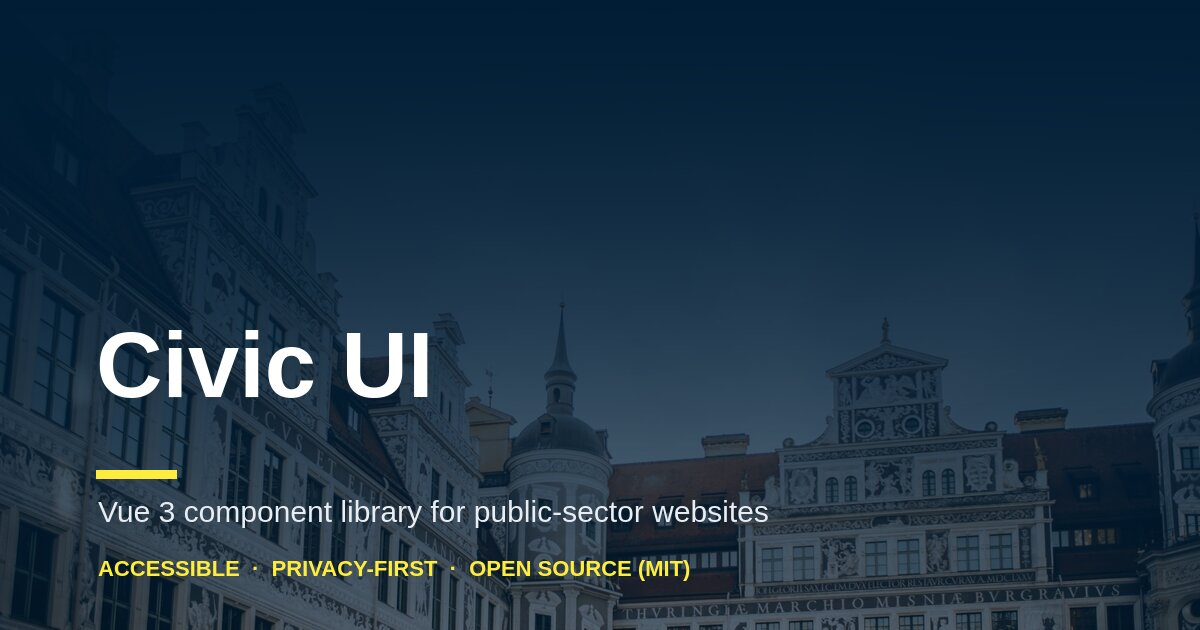
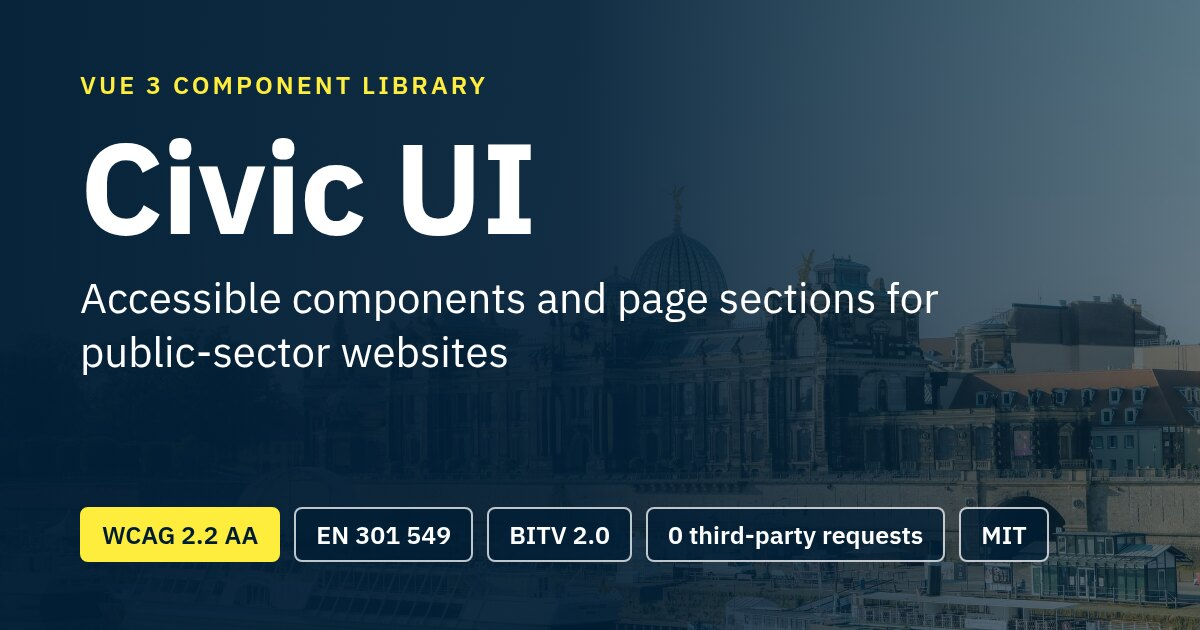
Refresh README screenshot and social preview image
Both still showed the old header and font. The ?v=2 query makes social
networks fetch the new preview instead of their cached copy.

diff --git a/playground/index.html b/playground/index.html
@@ -44,10 +44,11 @@
       property="og:description"
       content="A full page-building kit for government and civic websites: dozens of accessible components and ready-to-drop sections, built with Vue 3. Accessible by default, privacy-first, MIT-licensed."
     />
-    <meta property="og:image" content="https://civic.servergedoens.de/og-image.jpg" />
+    <meta property="og:image" content="https://civic.servergedoens.de/og-image.jpg?v=2" />
+    <meta property="og:image:type" content="image/jpeg" />
     <meta property="og:image:width" content="1200" />
     <meta property="og:image:height" content="630" />
-    <meta property="og:image:alt" content="Civic UI: Vue 3 component library for public-sector websites" />
+    <meta property="og:image:alt" content="Civic UI: accessible Vue 3 components and page sections for public-sector websites" />
     <meta property="og:locale" content="en_US" />
 
     <!-- Twitter / X -->
@@ -57,7 +58,8 @@
       name="twitter:description"
       content="A full page-building kit for government and civic websites: dozens of accessible components and ready-to-drop sections, built with Vue 3. Accessible by default, privacy-first, MIT-licensed."
     />
-    <meta name="twitter:image" content="https://civic.servergedoens.de/og-image.jpg" />
+    <meta name="twitter:image" content="https://civic.servergedoens.de/og-image.jpg?v=2" />
+    <meta name="twitter:image:alt" content="Civic UI: accessible Vue 3 components and page sections for public-sector websites" />
 
     <script type="application/ld+json">
       {

diff --git a/README.md b/README.md
@@ -10,7 +10,7 @@ Accessible Vue 3 components and page sections for public-sector and institutiona
 - **Components** for everything in between: buttons, forms, tables, navigation, overlays, feedback.
 - **A webapp kit** (`AppShell`, `Sidebar`, `DataTable`, `StatCard`) so internal tools share the design system of the public site.
 
-[![Civic UI playground: component and section catalog](docs/assets/screenshot.jpg)](https://civic.servergedoens.de)
+[![Civic UI playground home page: hero with the npm install command and the standards it is checked against](docs/assets/screenshot.jpg)](https://civic.servergedoens.de)
 
 ## Built for public-sector requirements
 
